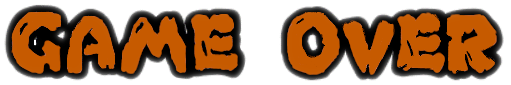
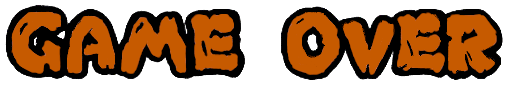
Ground Breaker

diff --git a/game_state.py b/game_state.py
@@ -49,7 +49,7 @@ class GameState:
         self.end_game = False
 
         # game over variables
-        self.game_over_img = pygame.transform.scale(pygame.image.load('img/game over.png'), (300, 50))
+        self.game_over_img = pygame.transform.scale(pygame.image.load('img/game over.png'), (350, 58))
         self.game_over_img_pos_rect = self.game_over_img.get_rect()
 
         # sounds
